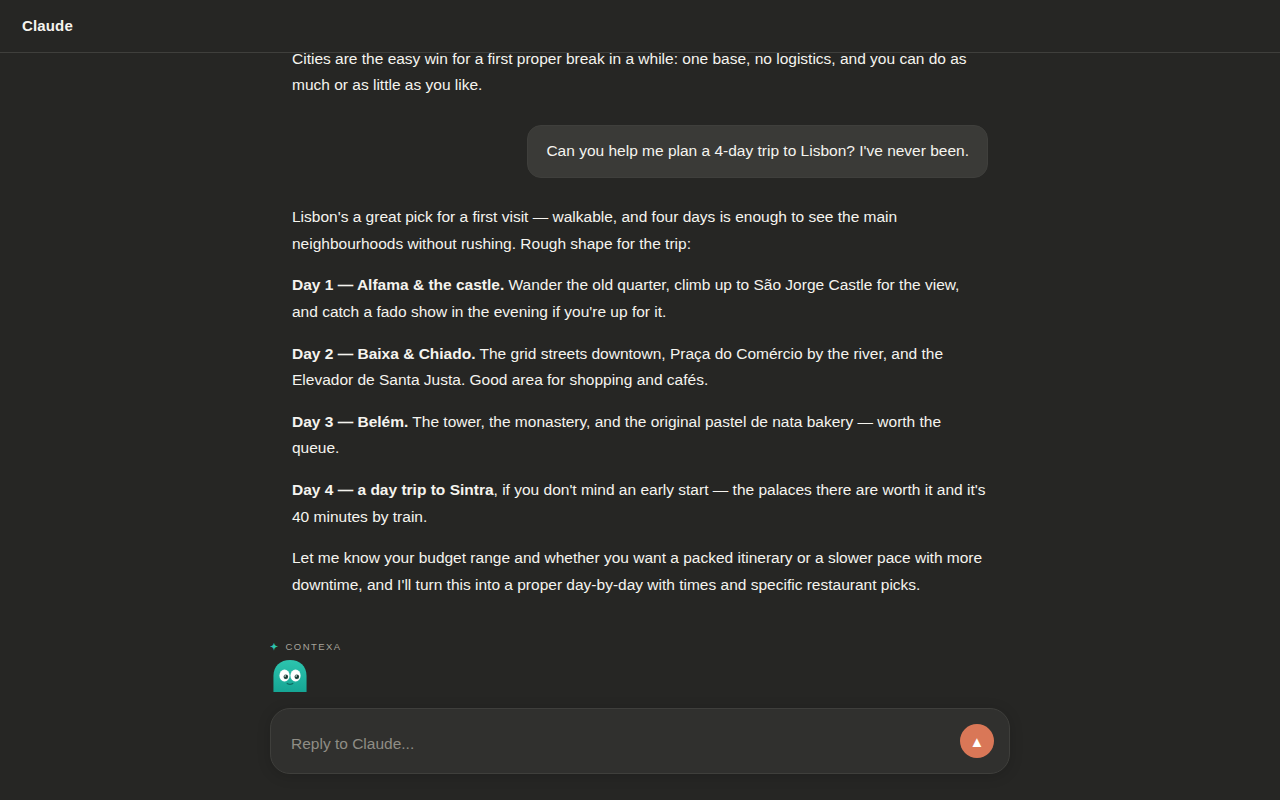
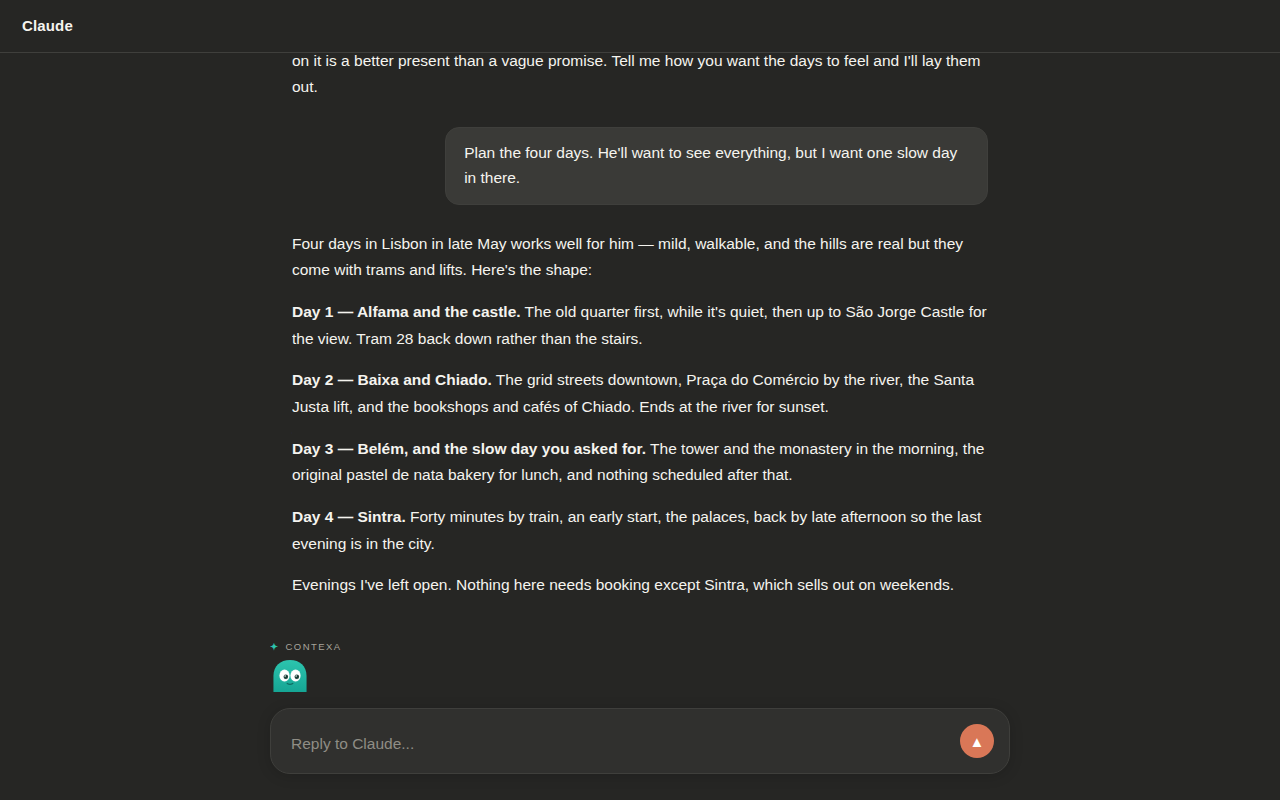
Reposition the store listing and retake the screenshots on a session with a history (#21)
The detailed description now leads with the reader's situation and the
word "prompt" the name is built on, gives history mining its own section
instead of a subordinate clause, names the mascot and "What now?" so a
visitor knows what to look for, and says what the product will not do
(rewrite what you typed, keep going on its own). Name, short description
and manifest are unchanged: 0.9.68 is live and a manifest edit would cost
a resubmission. Every number was re-read from worker/src/index.js.

The screenshot session is replaced. The old Lisbon thread ended on a
question and an offer, and all three canned moves quoted the reply, two
of them the reply's own offer handed back — the failure MOVES_SYSTEM
names as the worst it can produce — while the composed prompt invented a
budget and an arrival day the session never stated. The new thread has
three user turns; the first chip is earned by turn 2 and the second by
turn 1, neither of which the visible reply mentions, and the composed
frame shows a <paste here> slot and an "Assume:" line. Three moves, not
four, for the reason already in the harness.

Frames are renumbered into listing order: the composed frame ships first,
because the row alone reads as smart-reply stubs and a full prompt in the
box is the proof of "without the writing". CX_TURNS pads to 20 from
three turns now instead of two; both verification passes were re-run.

Claude-Session: https://claude.ai/code/session_01LidaMCFLznat6CLn77rard

Changed region(s): [[0.2188, 0.1562, 0.7812, 0.75], [0.2188, 0.0625, 0.7812, 0.125]]

diff --git a/scripts/screenshots/mock-claude.html b/scripts/screenshots/mock-claude.html
@@ -132,32 +132,54 @@
   <div class="thread" id="thread">
     <div class="col" id="col">
 
-      <!-- An earlier turn, so the thread genuinely overflows. Scrolled to the
+      <!-- Earlier turns, so the thread genuinely overflows. Scrolled to the
            bottom the conversation then runs right up against the card, which is
            how this looks in life; a short thread leaves a pool of dead space
-           above the card that reads as a layout bug in a screenshot. -->
+           above the card that reads as a layout bug in a screenshot.
+
+           They are also the SESSION the canned moves are mined from. Turn 1
+           states the goal and carries the heat limit the second chip remembers;
+           turn 2 carries the birthday present the first chip is about. Neither
+           is in frame — only the last turn and the current reply are — which is
+           the point: the chips visibly reach back to something the visible
+           reply never mentions. The evidence strings in capture.mjs are verbatim
+           from these two turns, so edit them together. -->
       <div class="group/message-row">
         <div class="user-row">
-          <div data-testid="user-message">I've got a week off in May and can't decide where to go.</div>
+          <div data-testid="user-message">I want to take my dad somewhere for four days at the end of May. He's 72, walks a lot, can't do heat, and has never been to Portugal.</div>
         </div>
       </div>
 
       <div class="group/message-row">
         <div data-is-streaming="false">
           <div class="font-claude-response">
-            <p>A few directions, depending on what you want the week to feel like.
-            If you want warm weather without peak crowds, southern Europe in May is
-            close to ideal — Portugal, Andalusia, Sicily. If you'd rather walk than
-            sit, the Dolomites and the Scottish Highlands are just opening up.</p>
-            <p>Cities are the easy win for a first proper break in a while: one
-            base, no logistics, and you can do as much or as little as you like.</p>
+            <p>Portugal in late May is close to ideal for him: mild, long evenings,
+            and the heat that arrives in July hasn't yet. Lisbon or Porto both fit.
+            Porto is smaller and steeper; Lisbon gives you four days without
+            repeating yourself, and the day trips are easy by train.</p>
           </div>
         </div>
       </div>
 
       <div class="group/message-row">
         <div class="user-row">
-          <div data-testid="user-message">Can you help me plan a 4-day trip to Lisbon? I've never been.</div>
+          <div data-testid="user-message">Lisbon then. One thing — he doesn't know yet. I'm giving him the plan as a birthday present on the 12th.</div>
+        </div>
+      </div>
+
+      <div class="group/message-row">
+        <div data-is-streaming="false">
+          <div class="font-claude-response">
+            <p>Good choice, and a good present. Lisbon in late May is mild, the light
+            is long, and a plan with dates on it is a better present than a vague
+            promise. Tell me how you want the days to feel and I'll lay them out.</p>
+          </div>
+        </div>
+      </div>
+
+      <div class="group/message-row">
+        <div class="user-row">
+          <div data-testid="user-message">Plan the four days. He'll want to see everything, but I want one slow day in there.</div>
         </div>
       </div>
 

diff --git a/publishing/STORE-LISTING.md b/publishing/STORE-LISTING.md
@@ -1,7 +1,8 @@
 # CONTEXA — Chrome Web Store listing copy
 
-**This file is the listing. Written for 0.9.68, 2026-08-31; detailed
-description lightly revised for search terms on 2026-09-01 (see below).**
+**This file is the listing. Written for 0.9.68; detailed description rewritten
+for positioning on 2026-09-01 (history mining leads, the mascot is named, the
+vocabulary matches the name). Name and short description unchanged.**
 
 It used to be a tombstone pointing at a project doc outside the repo, on the
 argument that a file duplicating the listing drifts from it. That argument was
@@ -47,40 +48,44 @@ surfaces drifted.
 ## Detailed description — 16,000 char limit
 
 ```
-CONTEXA writes your next message, so you don't have to.
+You are deep in a conversation on Claude.ai. You know where it should go next.
+Turning that into a message precise enough to get a good answer back is the
+part that costs you — and that is a skill, not a mood.
 
-CONTEXA is a free Chrome extension for Claude.ai. You are already deep in a
-conversation with Claude. You know roughly where you want it to go. The hard
-part is turning that into a message specific enough to get a good answer back
-— and that is a skill, not a mood.
-
-CONTEXA reads where the conversation has been going and offers you the messages
-you could send next. Each one is already written, in full. You pick one, read
-it, change anything you like, and send it yourself.
+CONTEXA is a free Chrome extension that skips the writing. Press one button and
+it reads your side of the conversation, then offers up to four next prompts,
+each one already written in full. Pick one and it lands in your message box,
+whole. You read it, change what you like, and send it yourself.
 
 NOTHING HAPPENS UNTIL YOU ASK
 
-When a Claude reply finishes, one small trigger appears above your message box.
-That is all. No model call, no request, nothing about your conversation leaves
-the page, and nothing counts against your daily allowance.
+When a Claude reply finishes, a small CONTEXA mascot appears above your message
+box and asks one thing: What now? That is all it does. No request, no model
+call, nothing about your conversation leaves the page, and nothing counts
+against your daily allowance. A reply you never ask about never leaves your
+browser.
 
-Press it and CONTEXA reads your own messages from the conversation — what you
-have been building toward across the whole thread, not just the last thing you
-typed — and offers up to four next moves.
+IT READS WHAT YOU SAID, NOT JUST WHAT CLAUDE SAID
 
-FOUR MESSAGES, NOT FOUR TOPICS
+A follow-up written from the last answer alone is mostly about the last answer.
+So when you press the button, CONTEXA reads your own messages across the whole
+conversation — the first one, which is usually where you said what you were
+trying to do, and everything you kept coming back to since — and mines the next
+move from that. Claude's reply is material, not the subject: what it just built
+is what makes a new move possible. A move that sends you back over an answer
+you have already read is the one thing it is written never to offer.
 
-Each move is a complete message on its own. They do not run in order, they do
-not build on each other, and picking one throws the rest away. It is a menu,
-not a checklist — you only need one.
+A MENU, NOT A CHECKLIST
 
-Click the one you want and the whole message lands in your box. You can edit
-it. Nothing is ever sent without you pressing send.
+Each move is a complete prompt on its own: one ask, in your words, ready to
+send. The moves do not run in order and do not build on each other. Picking
+one throws the rest away. You only ever need one.
 
-Where a message needs something only you have — a file, a link, a detail only
-you could know — CONTEXA marks the spot instead of inventing it. It may also
-add a line starting "Assume:" for anything the conversation already settled, so
-you can change it before you send rather than discovering it in the answer.
+Where a prompt needs something only you have — a file, a link, a story only
+you can tell — CONTEXA marks the spot as <paste here> instead of inventing it.
+Where the conversation already settled something, it may add a line starting
+"Assume:", so you can change it before you send rather than discover it in the
+answer.
 
 WHEN IT HAS NOTHING TO SAY, IT SAYS NOTHING
 
@@ -88,31 +93,33 @@ If the conversation has nothing worth taking further, CONTEXA shows you
 nothing at all. No filler, no padded row, no suggestion whose only virtue is
 that it could be shown.
 
-That is deliberate, and it is the part most of these tools get wrong. Every
-move has to be earned by something actually said in the conversation. Nothing
-earned, nothing offered.
+Every move has to be earned by something actually said in the conversation —
+by you or by Claude — and that is checked before anything reaches your screen.
+Nothing earned, nothing offered. On a one-question chat that is the usual
+result, and the correct one.
 
 WHAT IT WILL NOT DO
 
-It does not grade your prompts or tell you how to write. It does not overlay
-your message box or interrupt your typing. It does not send anything on your
-behalf, ever. And when something goes wrong — a limit reached, a network
-failure — it tells you what actually happened instead of quietly showing you
-canned suggestions.
+It will not rewrite what you typed. There is nothing to type into. It will not
+grade your prompts or tell you how to write. It will not overlay your message
+box or interrupt you mid-sentence. It will not keep a conversation going on its
+own, and it will not send anything on your behalf, ever. And when something
+goes wrong — a limit reached, a network failure — it tells you what happened
+instead of quietly showing you canned suggestions.
 
 HOW TO USE IT
 
-1. Install it and open a conversation on claude.ai.
-2. When a reply finishes, press the CONTEXA trigger above your message box.
-3. Pick one of the messages it offers. It lands in your box, whole.
+1. Install it and open a conversation on Claude.ai.
+2. When a reply finishes, press the CONTEXA mascot above your message box.
+3. Pick one of the prompts it offers. It lands in your box, whole.
 4. Edit if you want. Send when you are ready.
 
 No account. No sign-up. No API key needed. 20 replies a day are free — that is
-how many answers you can ask about, and picking a message costs nothing extra.
+how many answers you can ask about, and picking a prompt costs nothing extra.
 
 If you have your own Anthropic API key you can add it in settings, which
-removes the daily limit — and in that mode requests go straight from your
-browser to Anthropic, so nothing passes through our server at all.
+removes the daily limit. In that mode requests go straight from your browser
+to Anthropic, so nothing passes through our server at all.
 
 PRIVACY, PLAINLY
 
@@ -157,7 +164,8 @@ this file changes.
   data usage, certifications — are **not** here. They are in `SUBMISSION.md`,
   and they are written to match this copy. If you change what the product reads
   or sends, all three files move in the same release.
-- Screenshots: `publishing/screenshots/`, regenerated for 0.9.68.
-- Check the live listing against this file before pasting. It has been on
-  0.9.57 for eleven versions and nobody in the repo can see what it currently
-  says.
+- Screenshots: `publishing/screenshots/`, regenerated on 2026-09-01 against
+  0.9.68 with the history-mining session. Upload in filename order — the
+  composed frame goes first.
+- The live listing went to 0.9.68 on 2026-09-01. Check it against this file
+  before pasting; this file is what it is supposed to say.

diff --git a/publishing/screenshots/README.md b/publishing/screenshots/README.md
@@ -1,6 +1,8 @@
 # Store screenshots
 
-**Captured from 0.9.68, on 2026-08-31.**
+**Captured from 0.9.68, on 2026-09-01, with the history-mining session** (a
+three-turn Lisbon thread whose first chip is earned by a turn the visible reply
+never mentions). The previous set, captured 2026-08-31, is in git history.
 
 That stamp is here because its absence cost something. The previous set was
 captured at 0.9.58 and nothing recorded the fact, so nobody noticed when commit
@@ -16,15 +18,18 @@ in `MOVES` at the top of `scripts/screenshots/capture.mjs`. If the label rule,
 the move count or the card changes, that constant has to change with it, or a
 re-run faithfully reproduces the old product.
 
-Five PNGs, each exactly 1280×800, in listing order. The set is dark apart from
+Five PNGs, each exactly 1280×800, numbered in listing order (which is not
+capture order: the composed frame ships first because the row alone reads as
+smart-reply stubs, and a full prompt in the box is the proof of "without the
+writing"). The set is dark apart from
 `4-light.png`, which exists to show that the card follows the host's theme
 rather than imposing its own.
 
 | File | Shows |
 |---|---|
-| `1-moves.png` | the mined row — up to four next moves, each a whole message |
-| `2-composed.png` | one click later: the whole prompt in the message box, nothing sent |
-| `3-trigger.png` | the trigger as it arrives, before anything is asked or spent |
+| `1-composed.png` | one click later: the whole prompt in the message box, with a `<paste here>` slot and an `Assume:` line, nothing sent |
+| `2-moves.png` | the mined row — three next moves, the first two earned by turns the visible reply never mentions |
+| `3-trigger.png` | the mascot as it arrives, before anything is asked or spent |
 | `4-light.png` | the same row with claude.ai in light mode |
 | `5-settings.png` | the settings page |
 

diff --git a/publishing/NEXT-SUBMISSION.md b/publishing/NEXT-SUBMISSION.md
@@ -12,7 +12,7 @@ Read this first, then `SUBMISSION.md` for the four fields a reviewer reads.
 
 | | version | state |
 |---|---|---|
-| Chrome Web Store listing | **0.9.57** | live, public, eleven versions behind |
+| Chrome Web Store listing | **0.9.68** | live since 2026-09-01 |
 | Package built and ready | **0.9.68** | `contexa-v0.9.68.zip` at the repo root |
 | Cloudflare Worker | **0.9.68** | deployed and verified on `/v1/health` |
 | `SUBMISSION.md` declarations | 0.9.68 | corrected 2026-08-31 |
@@ -48,8 +48,8 @@ the screenshots (§2) and verifying the live listing copy (§3).
 
 ## 2. Screenshots
 
-**Regenerated 2026-08-31 against 0.9.68 — they are current.** Five PNGs,
-1280×800, in `publishing/screenshots/`: `1-moves`, `2-composed`, `3-trigger`,
+**Regenerated 2026-09-01 against 0.9.68 with the history-mining session — they are current.** Five PNGs,
+1280×800, in `publishing/screenshots/`: `1-composed`, `2-moves`, `3-trigger`,
 `4-light`, `5-settings`.
 
 Two things were wrong before that run, worth knowing since both are invisible

diff --git a/store-assets/README.md b/store-assets/README.md
@@ -16,7 +16,7 @@ extension or the worker at runtime — the shipped extension icons live in
   click at a time, and the interview no longer exists. It was a faithful
   recreation of the UI when made (same markup, CSS and animation timings as
   `content.js`) and is no longer one. Needs remaking against the mined row before
-  it is used anywhere public; `publishing/screenshots/1-moves.png` is the current
+  it is used anywhere public; `publishing/screenshots/2-moves.png` is the current
   shape, not a literal screen recording of the extension running on
   claude.ai — good for the README and social use, but it is **not** a
   substitute for real Chrome Web Store screenshots. See

diff --git a/publishing/PUBLISHING-CHECKLIST.md b/publishing/PUBLISHING-CHECKLIST.md
@@ -69,7 +69,7 @@ Copy comes from `publishing/STORE-LISTING.md`, which since 2026-08-31 IS the lis
 - [ ] Category: Productivity.
 - [ ] Icon: `extension/icons/icon128.png`.
 - [ ] Screenshots: the five 1280×800 PNGs in `publishing/screenshots/`.
-      Order them `1-moves` → `2-composed` → `3-trigger` → `4-light` →
+      Order them `1-composed` → `2-moves` → `3-trigger` → `4-light` →
       `5-settings`; the first is what most people judge the listing by.
       Regenerate with `xvfb-run -a node scripts/screenshots/capture.mjs` rather
       than editing the PNGs by hand.
